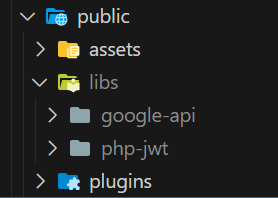
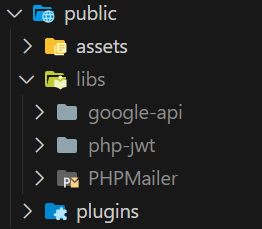
docs: update install libraries and download source code

diff --git a/README.md b/README.md
@@ -2,13 +2,25 @@
 
 ## Mục lục
 
-- [Cấu hình đường dẫn](#bước-1-cấu-hình-đường-dẫn)
-- [Cấu hình URL](#bước-2-cấu-hình-url)
-- [Cấu hình database](#bước-3-cấu-hình-database)
-- [Cài đặt thư viện](#bước-4-cài-đặt-thư-viện)
-- [Chạy dự án](#bước-5-chạy-dự-án)
+- [Cài đặt source code](#bước-1-cài-đặt-source-code)
+- [Cấu hình đường dẫn](#bước-2-cấu-hình-đường-dẫn)
+- [Cấu hình URL](#bước-3-cấu-hình-url)
+- [Cấu hình database](#bước-4-cấu-hình-database)
+- [Cài đặt thư viện](#bước-5-cài-đặt-thư-viện)
+- [Chạy dự án](#bước-6-chạy-dự-án)
 
-## Bước 1: Cấu hình đường dẫn
+## Bước 1 cài đặt source code:
+
+Có thể thực hiện bằng 1 trong 2 cách sau:
+
+1. Cài đặt phiên bản mới nhất:
+
+   ![Guide install source code](guide-install-source-code.png)
+   Khuyến khích nên dùng cách này vì tiết kiệm dung lượng hơn.
+
+2. Clone `https://github.com/linhpq0610/CoffeeShop.git`.
+
+## Bước 2: Cấu hình đường dẫn
 
 1. Truy cập file `configs/constants/directories.php`.
 2. Tìm dòng sau đây:
@@ -23,7 +35,7 @@
    define("ROOT_DIR", "ĐƯỜNG_DẪN_CỦA_BẠN");
    ```
 
-## Bước 2: Cấu hình URL
+## Bước 3: Cấu hình URL
 
 1. Truy cập file `configs/constants/urls.php`.
 2. Tìm dòng sau đây:
@@ -38,7 +50,7 @@
    define("ROOT_URL", "URL_CỦA_BẠN");
    ```
 
-## Bước 3: Cấu hình database
+## Bước 4: Cấu hình database
 
 1. Truy cập file `configs/database.php`;
 2. Thay đổi:
@@ -61,16 +73,17 @@
    ```
 3. Import file `CoffeeShop.sql` vào database của bạn.
 
-## Bước 4: Cài đặt thư viện
+## Bước 5: Cài đặt thư viện
 
 1. Tạo thư mục `libs` trong `public`
 2. Giải nén `php-jwt.zip` vào thư mục `libs`
-3. Tải thư viện Google API [tại đây](https://github.com/googleapis/google-api-php-client/releases/download/v2.15.1/google-api-php-client--PHP7.4.zip)
-4. Đổi tên thư mục sau giải nén thành `google-api` và đặt vào thư mục `libs`.
-5. Cuối cùng thư mục sẽ có cấu trúc như sau:
+3. Giải nén `PHPMailer.zip` vào thư mục `libs`
+4. Tải thư viện Google API [tại đây](https://github.com/googleapis/google-api-php-client/releases/download/v2.15.1/google-api-php-client--PHP7.4.zip)
+5. Đổi tên thư mục sau giải nén thành `google-api` và đặt vào thư mục `libs`.
+6. Cuối cùng thư mục sẽ có cấu trúc như sau:
 
    ![Guide install libraries](guide-install-libraries.png)
 
-## Bước 5: Chạy dự án
+## Bước 6: Chạy dự án
 
 Bây giờ bạn đã cấu hình xong. Bạn có thể chạy dự án CoffeeShop trên máy tính của bạn.
